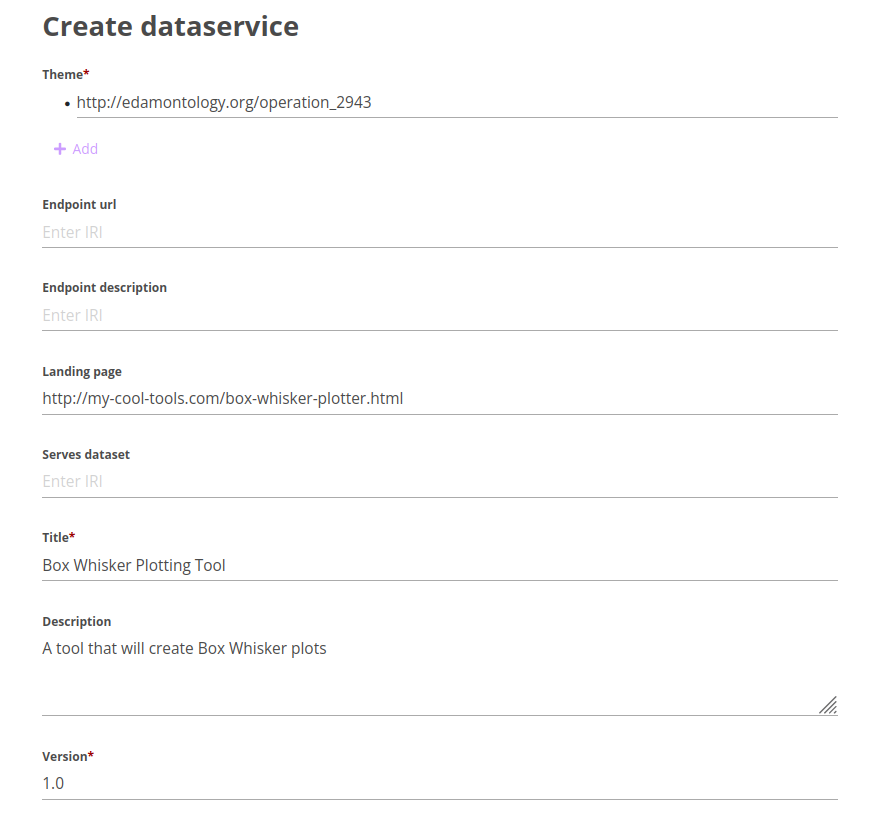
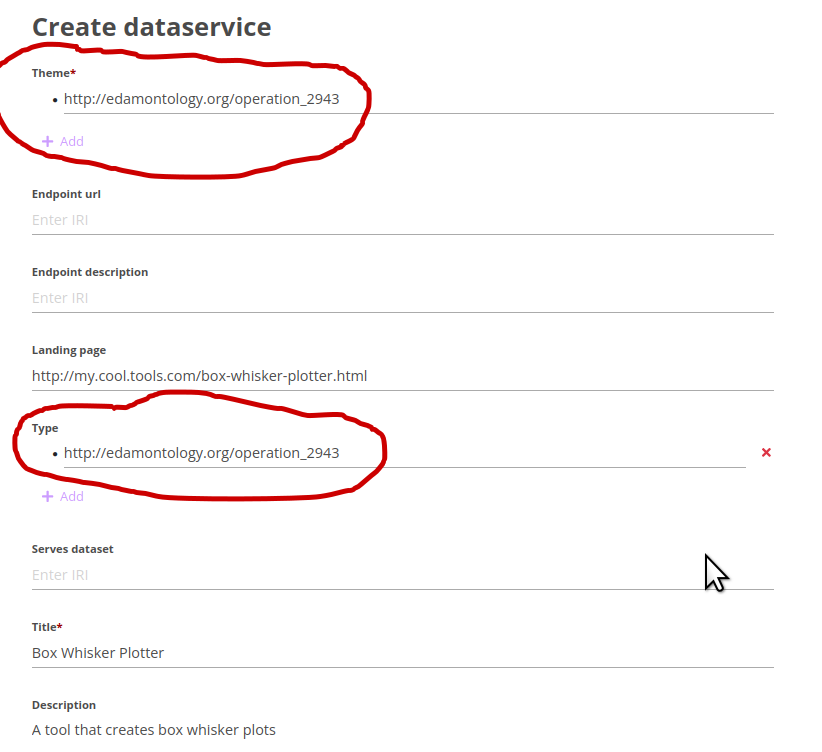
updated for new service description

diff --git a/README.md b/README.md
@@ -68,7 +68,7 @@ Now edit **Data Service**
 
 ![](./images/edit-data-service.png)
 
-Many portions of that need to be edited.  Follow my suggestions in teh image above.  
+theMany portions of that need to be edited.  Follow my suggestions in the image above.  
 
 The SHACL also needs to be edited.  the correct SHACL for a Data Service is found here: [data-service.shacl](./shacl/data-service.shacl)
 
@@ -117,14 +117,16 @@ Do the same thing again,  but this time, call it **_DataService2_**.  (The two k
 
 
 **THE NORMS ARE:**
-For services that serve a dataset (DataService1), they:
-* must be a "child of" a distribution of dataset
-* must have an endpointURL (the URL of the interface)
-* must have an endpointDescription (the URL leading to e.g. a Swagger/openAPI document)
+For services that serve a dataset (DataService), they:
+* MUST be a "child of" a distribution of dataset
+* MUST have an endpointURL (the URL of the interface)
+* MUST have an endpointDescription (the URL leading to e.g. a Swagger/openAPI document)
+* MAY have a landingPage
 
 For services that execute algorithmic operations (DataService2), they:
-* must be a "child of" "Catalog"
-* must have a landingPage (the URL of the homepage, where you can do the operation)
+* MUST be a "child of" "Catalog"
+* MUST have a landingPage (the URL of the homepage, where you can do the operation)
+* MAY have endpointURL and endpointDescription
 
 **THESE NORMS ARE NOT ENFORCED BY THE FDP!!  So... just be good citizens!**
 
@@ -176,13 +178,14 @@ I'm creating a hypothetical Box-Whisker plot tool.  The _**"theme"**_ is the con
 
 Further down the page there are additional fields that I would like to fill-out.  For example, I am going to declare that this service does not utilize personal information (in the GDPR sense).  The allowed values are "true" and "false"  (lower case!).  I am not sure if this is enforced or not
 
-I also want to tell the VP that the service exists, so I need to make it **VPDiscoverable**.  Find the section called "Vp Connection" and click "add".  The result is a dropdown menu, where you are allowed to seect one of:
+I also want to tell the VP that the service exists, so I need to make it **VPDiscoverable**.  Find the section called "Vp Connection" and click "add".  The result is a dropdown menu, where you are allowed to select:
+
 * http://purl.org/ejp-rd/vocabulary/VPDiscoverable
-* http://purl.org/ejp-rd/vocabulary/VPContentDiscovery
+
 
 VPDiscoverable is required to get a Resource (i.e. any child of dcat:Resource) into the FDP Index.  VPContentDiscovery indicates that the Resource has implemented Beacon2 for content-level discovery.
 
-![](images/discoverable.png)
+![](images/boxwhisker-dataservice2.png)
 
 Save!
 
